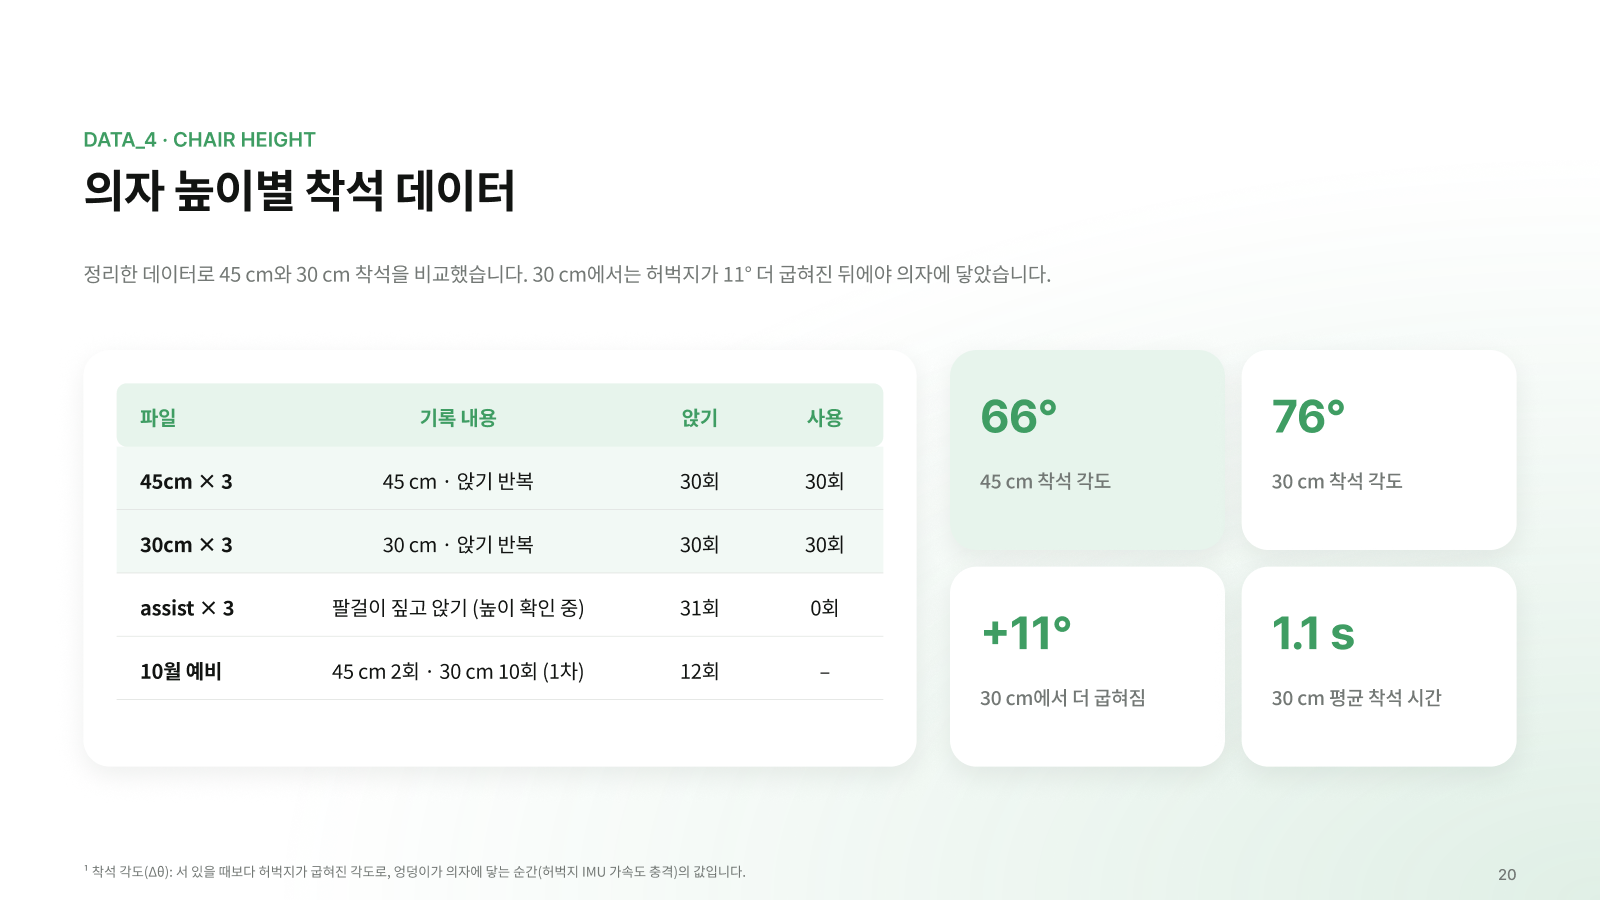
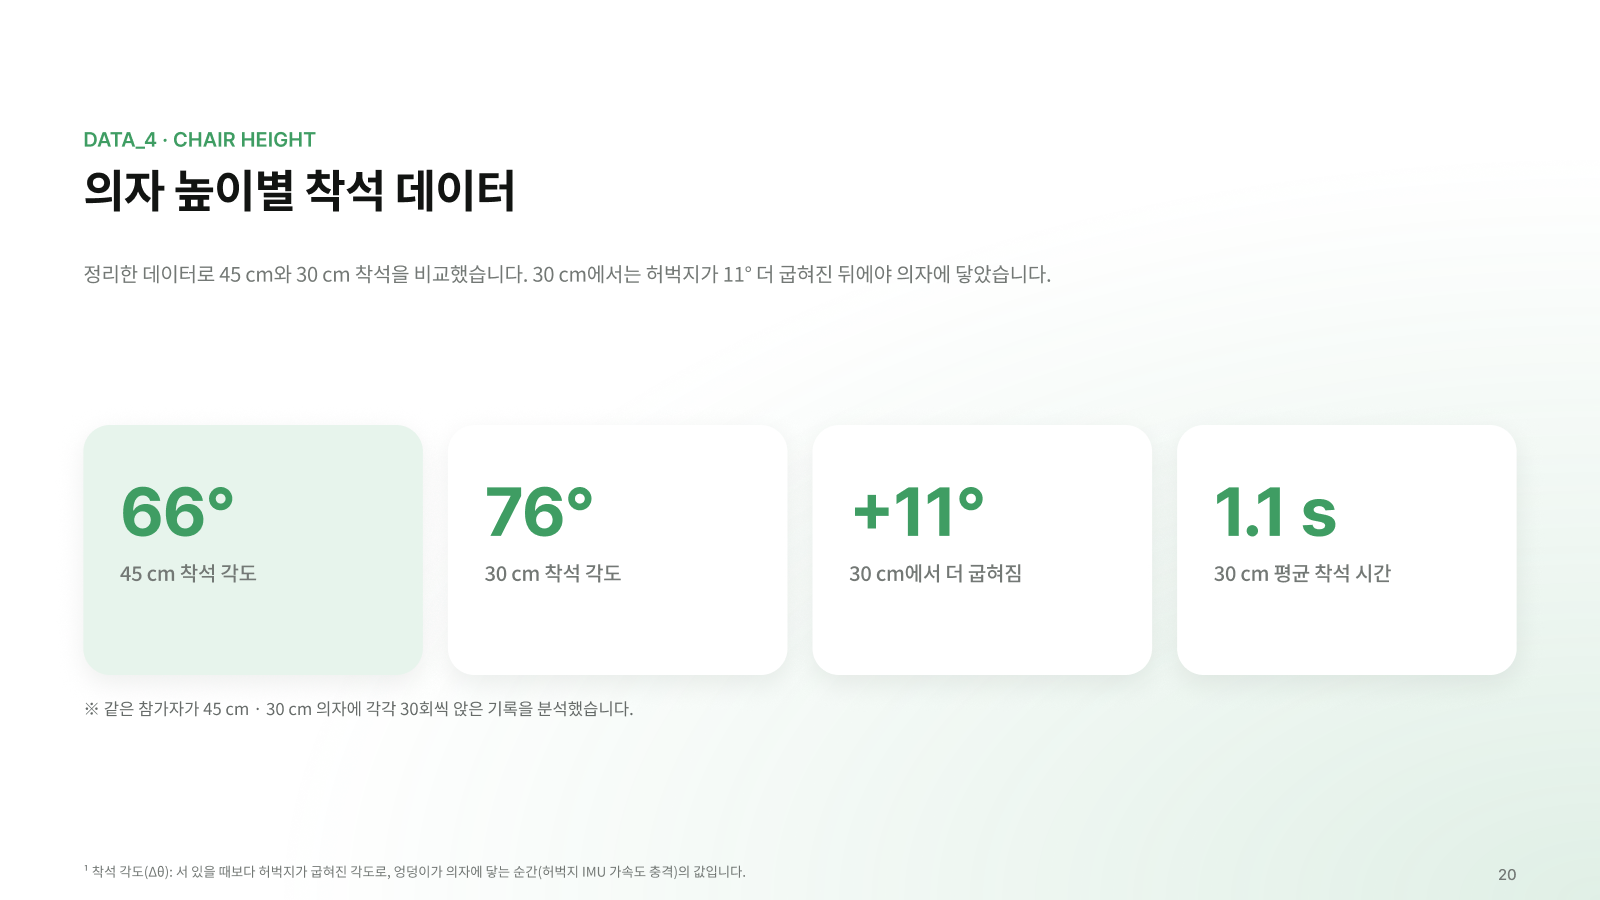
Slides: drop file table from chair-height slide

diff --git a/presentation/발표_흐름.md b/presentation/발표_흐름.md
@@ -28,7 +28,7 @@ Figma Slides: https://www.figma.com/slides/4tZDoTD6FXxpx83Z0kraKR
 | 17 | DATA_1 · PROTOCOL | 실험 프로토콜 | 누가(팀원 3명) · 어디에(45 vs 30 cm) · 어떻게(보조 OFF → ON, 30회씩) + 비교 지표 3개(착석 각도·닿는 순간 속도·상체 숙임) + 진행 상황 한 줄 |
 | 18 | DATA_2 · H10 LOG | H10 로그 데이터 | 앱 CSV → 100 Hz → 앉기 검출 |
 | 19 | DATA_3 · PREPROCESSING | 전처리에서 마주친 세 가지 문제 | 실측은 시뮬레이션과 달랐음 → 세 가지 수정 |
-| 20 | DATA_4 · CHAIR HEIGHT | 의자 높이별 착석 데이터 | 66° → 76° (+11°), 우리 실측값이 처음 나오는 장 |
+| 20 | DATA_4 · CHAIR HEIGHT | 의자 높이별 착석 데이터 | 숫자 카드 4개(66° · 76° · +11° · 1.1 s) + "45·30 cm 각 30회" 한 줄. 파일 표는 뺌(팔걸이·10월 예비는 질문 시 말로) |
 | 21 | DATA_5 · PERSONAL REFERENCE | 개인 기준 패턴 | |
 | 22 | 간지 PART 04 | 알고리즘 | 제어 파이프라인 · 착석 단계 판단 · 보조 토크와 수식 |
 | 23 | ARCHITECTURE | 제어 파이프라인 | |
